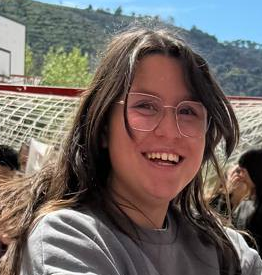
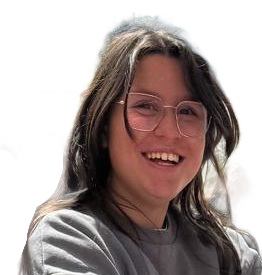
Cutout data/grupoinventado/blingyourver.json (quitar fondo)

diff --git a/js/ranking.js b/js/ranking.js
@@ -4,7 +4,7 @@
 /* ========================================= */
 
 /* Bump when the avatar images change, to bust the browser/Pages cache. */
-const PHOTO_VER = 186;
+const PHOTO_VER = 187;
 window.PHOTO_VER = PHOTO_VER;
 
 const Ranking = {
